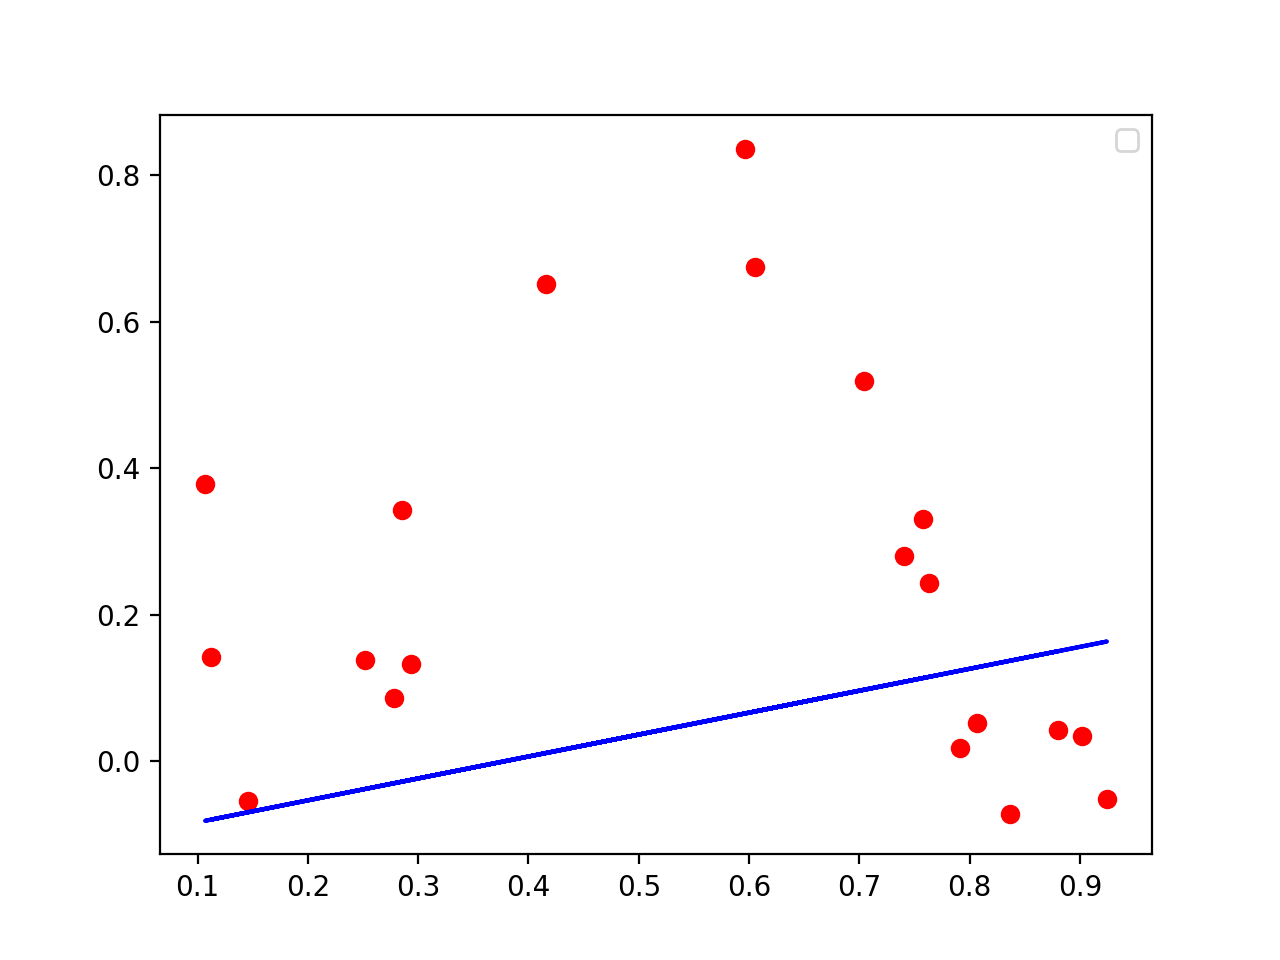
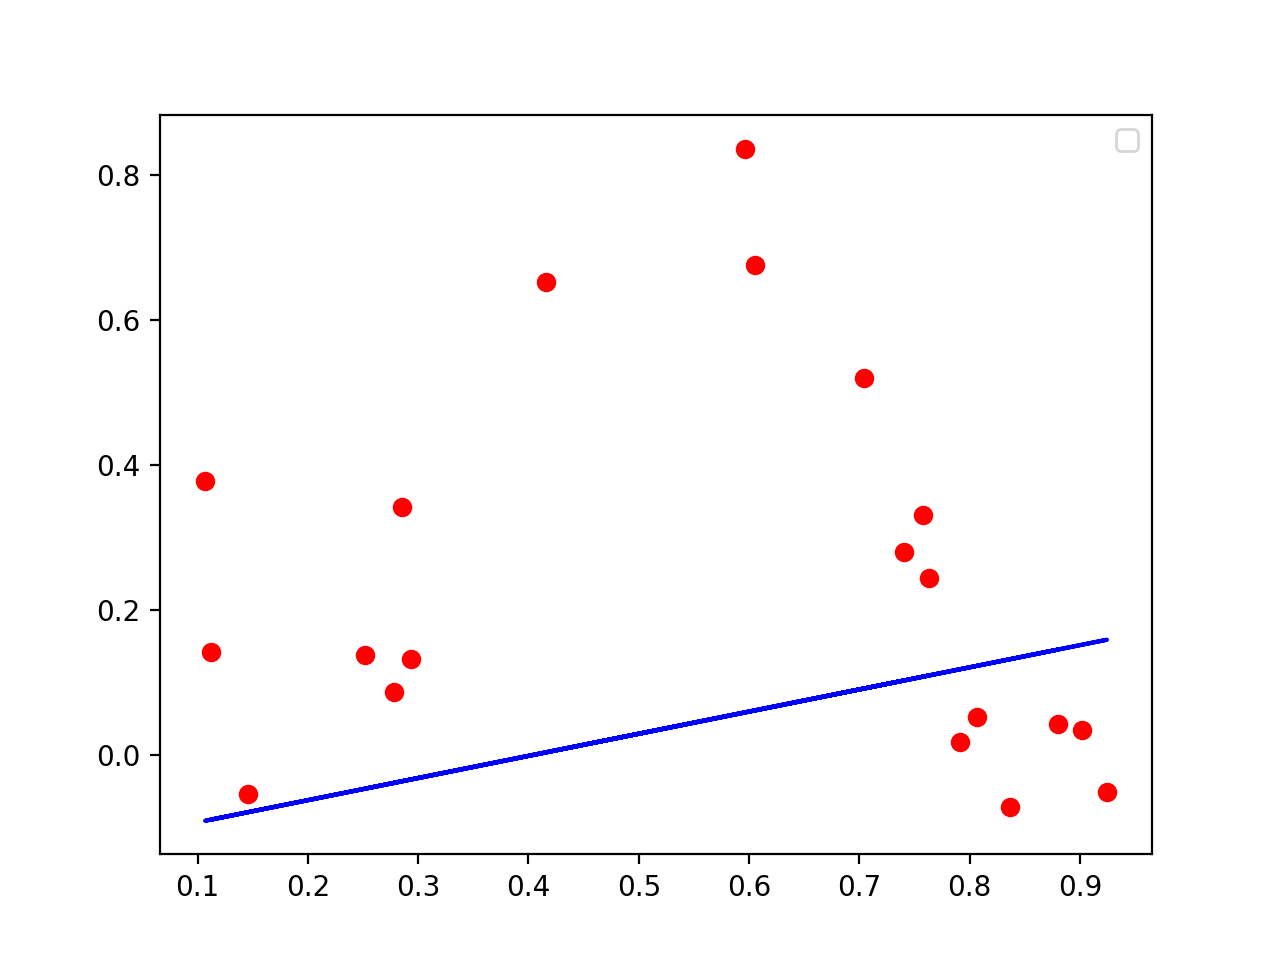
fnished up until 3

diff --git a/Starter_Code/q2_linear_regression.py b/Starter_Code/q2_linear_regression.py
@@ -8,11 +8,11 @@ Follow the instructions in the homework to complete the assignment.
 import numpy as np
 import matplotlib.pyplot as plt
 from helper import load_data
+from time import monotonic
 
 def calculate_empirical_risk(X, y, theta):
     loss = 0
     n = X.shape[0]
-
     for i in range(n):
         loss += (((y[i] - np.dot(theta,  X[i]))**2) / 2)
     return loss / n
@@ -29,6 +29,11 @@ def calculate_RMS_Error(X, y, theta):
     """
     # TODO: Implement this function
     E_rms = 0
+    E_err = 0
+    n = X.shape[0]
+    for i in range(n):
+        E_err += (np.dot(theta, X[i]) - y[i])**2
+    E_rms = np.sqrt(E_err/n)
     return E_rms
 
 
@@ -48,6 +53,9 @@ def generate_polynomial_features(X, M):
     # TODO: Implement this function
     n = X.shape[0]
     Phi = np.zeros((n, M+1))
+    if(M == 0):
+        return X
+
     for i, x in enumerate(X):
         Phi[i][0] = 1
         Phi[i][1] = x
@@ -77,20 +85,25 @@ def ls_gradient_descent(X, y, learning_rate=0):
     new_loss = 0
     prev_loss = 0
     #convergence criteria
+    start_time = monotonic()
     while(k < pow(10, 6)):
         prev_loss = new_loss
+        
+        y_pred = np.dot(X, theta)
+        diff = y_pred - y
+        grad = np.dot(X.T, diff) / n
 
-        print(f"new_loss: {new_loss}")
-        y_pred = X @ theta
-        grad = (2 * X.T @ (y_pred - y)) / n
 
         theta = theta - (learning_rate * grad)
         k += 1
 
         new_loss = calculate_empirical_risk(X, y, theta)
+        
         if np.abs(new_loss - prev_loss) < pow(10, -10): 
+            print(f"FINAL TIME: {monotonic() - start_time}")
             print(f"ITERATIONS: {k}")
             return theta
+    print(f"FINAL TIME: {monotonic() - start_time}")
     print(f"ITERATIONS: {k}")
     return theta
 
@@ -110,7 +123,29 @@ def ls_stochastic_gradient_descent(X, y, learning_rate=0):
         theta: np.array, shape (d,)
     """
     # TODO: Implement this function
+    n = X.shape[0]
+    d = X.shape[1]
     theta = np.zeros((d,))
+    k = 0
+    new_loss = 0
+    prev_loss = 0
+    #convergence criteria
+    start_time = monotonic()
+    while(k < pow(10, 6)):
+        prev_loss = new_loss
+        #np.random.shuffle(X)
+        #np.random.shuffle(y)
+        for i in range(n):
+            theta = theta + ((learning_rate * (y[i] - np.dot(theta, X[i])))*X[i])
+            k += 1
+
+        new_loss = calculate_empirical_risk(X, y, theta)
+        if np.abs(new_loss - prev_loss) < pow(10, -10): 
+            print(f"FINAL TIME: {monotonic() - start_time}")
+            print(f"ITERATIONS: {k}")
+            return theta
+    print(f"FINAL TIME: {monotonic() - start_time}")
+    print(f"ITERATIONS: {k}")
     return theta
 
 
@@ -127,7 +162,11 @@ def closed_form_optimization(X, y, reg_param=0):
         theta: np.array, shape (d,)
     """
     # TODO: Implement this function
+    n = X.shape[0]
+    d = X.shape[1]
     theta = np.zeros((d,))
+
+    theta = np.dot(np.dot(np.linalg.inv(np.dot(X.T, X) + np.identity(d) * reg_param), X.T), y) + (reg_param / 2)
     return theta
 
 
@@ -136,9 +175,10 @@ def part_2_1(fname_train):
     print("========== Part 2.1 ==========")
 
     X_train, y_train = load_data(fname_train)
-    theta = ls_gradient_descent(X=generate_polynomial_features(X_train, 1), y=y_train, learning_rate=pow(10, -4))
-    poly = np.poly1d(theta)
+    theta = closed_form_optimization(X=generate_polynomial_features(X_train, 1), y=y_train)
+    print("RESULTS: ")
     print(theta)
+    poly = np.poly1d(theta)
     y_theta = poly(X_train)
     print("Done!")
     plt.plot(X_train, y_train, 'ro')
@@ -160,6 +200,12 @@ def part_2_2(fname_train, fname_validation):
     errors_train = np.zeros((11,))
     errors_validation = np.zeros((11,))
     # Add your code here
+    '''
+    for i in range(11):
+        theta = closed_form_optimization(generate_polynomial_features(X_train, i), y_train)
+        errors_train[i] = calculate_RMS_Error(generate_polynomial_features(X_train, i), y_train, theta)
+        errors_validation[i] = calculate_RMS_Error(generate_polynomial_features(X_validation, i), y_validation, theta)
+
 
     plt.plot(errors_train,'-or',label='Train')
     plt.plot(errors_validation,'-ob', label='Validation')
@@ -171,13 +217,27 @@ def part_2_2(fname_train, fname_validation):
     plt.savefig('q2_2_a.png', dpi=200)
     plt.close()
 
-
+    '''
     # (b) REGULARIZATION
 
     errors_train = np.zeros((10,))
     errors_validation = np.zeros((10,))
     L = np.append([0], 10.0 ** np.arange(-8, 1))
     # Add your code here
+    best_score = 10000000000000
+    best_theta = 0
+    for lam in L:
+        temp_theta = closed_form_optimization(generate_polynomial_features(X_train, 10), y_train, lam)
+        temp_score = calculate_empirical_risk(generate_polynomial_features(X_train, 10), y_train, temp_theta)
+
+        if(temp_score < best_score):
+            best_score = temp_score
+            best_theta = temp_theta
+
+    for i in range(10):
+        theta = closed_form_optimization(generate_polynomial_features(X_train, 10), y_train, L[i])
+        errors_train[i] = calculate_RMS_Error(generate_polynomial_features(X_train, 10), y_train, theta)
+        errors_validation[i] = calculate_RMS_Error(generate_polynomial_features(X_validation, 10), y_validation, theta)
 
     plt.figure()
     plt.plot(L, errors_train, '-or', label='Train')
